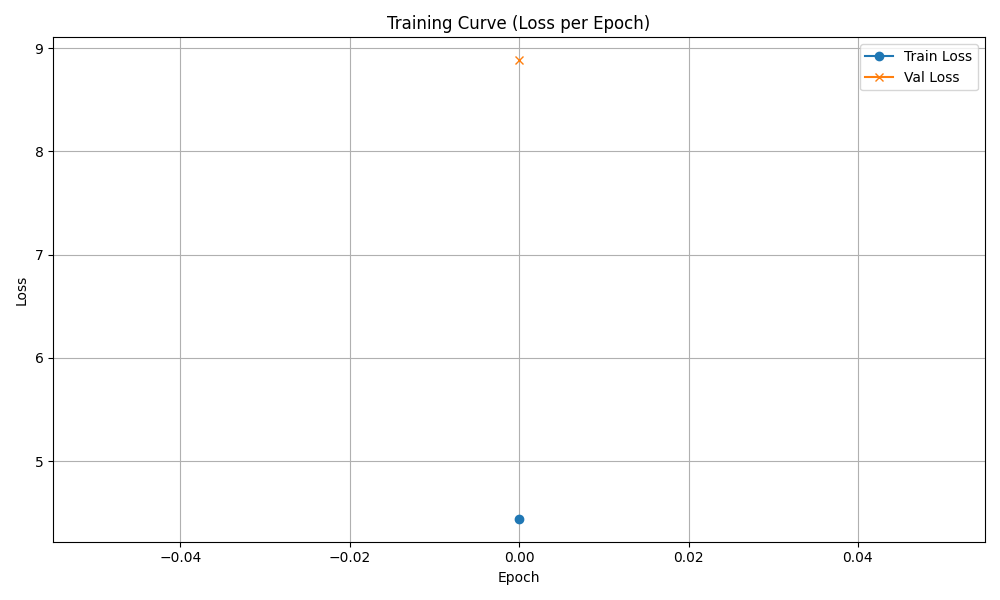
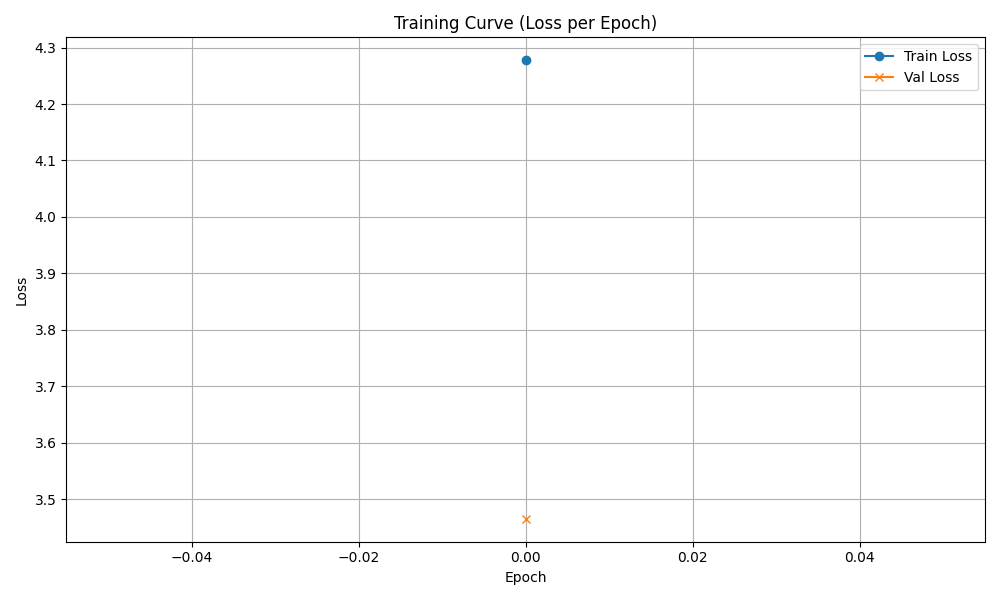
setup attention with beemsearch + BPE

diff --git a/enfr-main/src/main/main.py b/enfr-main/src/main/main.py
@@ -52,19 +52,19 @@ args = parser.parse_args()
 # 1.1 Kịch bản thực nghiệm
 experiment_presets = {
     "A1": {"embed_dim": 256, "hidden_dim": 512, "num_layers": 2, "dropout": 0.3, "batch_size": 32, "lr": 0.001,
-           "teacher_forcing_ratio": 0.5, "n_epochs": 20, "use_attention": True},
+           "teacher_forcing_ratio": 0.5, "n_epochs": 20, "use_attention": False},
 
     "A2": {"embed_dim": 512, "hidden_dim": 512, "num_layers": 2, "dropout": 0.3, "batch_size": 32, "lr": 0.001,
-           "teacher_forcing_ratio": 0.5, "n_epochs": 20, "use_attention": True},
+           "teacher_forcing_ratio": 0.5, "n_epochs": 20, "use_attention": False},
 
     "A3": {"embed_dim": 512, "hidden_dim": 512, "num_layers": 2, "dropout": 0.5, "batch_size": 32, "lr": 0.001,
-           "teacher_forcing_ratio": 0.5, "n_epochs": 20, "use_attention": True},
+           "teacher_forcing_ratio": 0.5, "n_epochs": 20, "use_attention": False},
 
     "A4": {"embed_dim": 512, "hidden_dim": 512, "num_layers": 2, "dropout": 0.3, "batch_size": 128, "lr": 0.001,
-           "teacher_forcing_ratio": 0.5, "n_epochs": 20, "use_attention": True},
+           "teacher_forcing_ratio": 0.5, "n_epochs": 20, "use_attention": False},
 
     "A5": {"embed_dim": 512, "hidden_dim": 512, "num_layers": 2, "dropout": 0.3, "batch_size": 64, "lr": 0.001,
-           "teacher_forcing_ratio": 0.5, "n_epochs": 20, "use_attention": True},
+           "teacher_forcing_ratio": 0.5, "n_epochs": 20, "use_attention": False},
 }
 
 # 1.2 áp dụng giá trị preset
@@ -205,7 +205,7 @@ example_sentences = [
 
 print("\n Translation examples:")
 for s in example_sentences:
-    pred = translate(s, model, src_vocab, trg_vocab, tokenize_en, method="beam", beam_sizes=5) # 
+    pred = translate(s, model, src_vocab, trg_vocab, tokenize_en, method="greedy", ) # beam_sizes=5
     print(f"EN: {s}")
     print(f"FR(pred): {pred}\n")
 
@@ -219,8 +219,8 @@ avg_bleu, ppl, bleu_scores, examples = evaluate_with_metrics(
     src_tokenizer=tokenize_en,
     pad_idx=trg_vocab.stoi["<pad>"],
     device=device,
-    method="beam",
-    beam_sizes=5
+    method="greedy",
+    # beam_sizes=5
 )
 
 print(f"\nFinal BLEU: {avg_bleu:.4f}")

diff --git a/enfr-main/src/main/dataset.py b/enfr-main/src/main/dataset.py
@@ -27,7 +27,7 @@ def tokenize_fr(text):
 
 # 2. Vocabulary
 class Vocab:
-    def __init__(self, max_size=10000, freq_threshold=2):
+    def __init__(self, max_size=10000, freq_threshold=1):
         self.max_size = max_size
         self.freq_threshold = freq_threshold
 
@@ -92,13 +92,13 @@ class TranslationDataset(Dataset):
 
         # xây vocab nếu chưa có
         if src_vocab is None:
-            self.src_vocab = Vocab(max_size=10000, freq_threshold=2)
+            self.src_vocab = Vocab(max_size=10000, freq_threshold=1)
             self.src_vocab.build_vocabulary(self.src_sentences)
         else:
             self.src_vocab = src_vocab
 
         if trg_vocab is None:
-            self.trg_vocab = Vocab(max_size=10000, freq_threshold=2)
+            self.trg_vocab = Vocab(max_size=10000, freq_threshold=1)
             self.trg_vocab.build_vocabulary(self.trg_sentences)
         else:
             self.trg_vocab = trg_vocab
